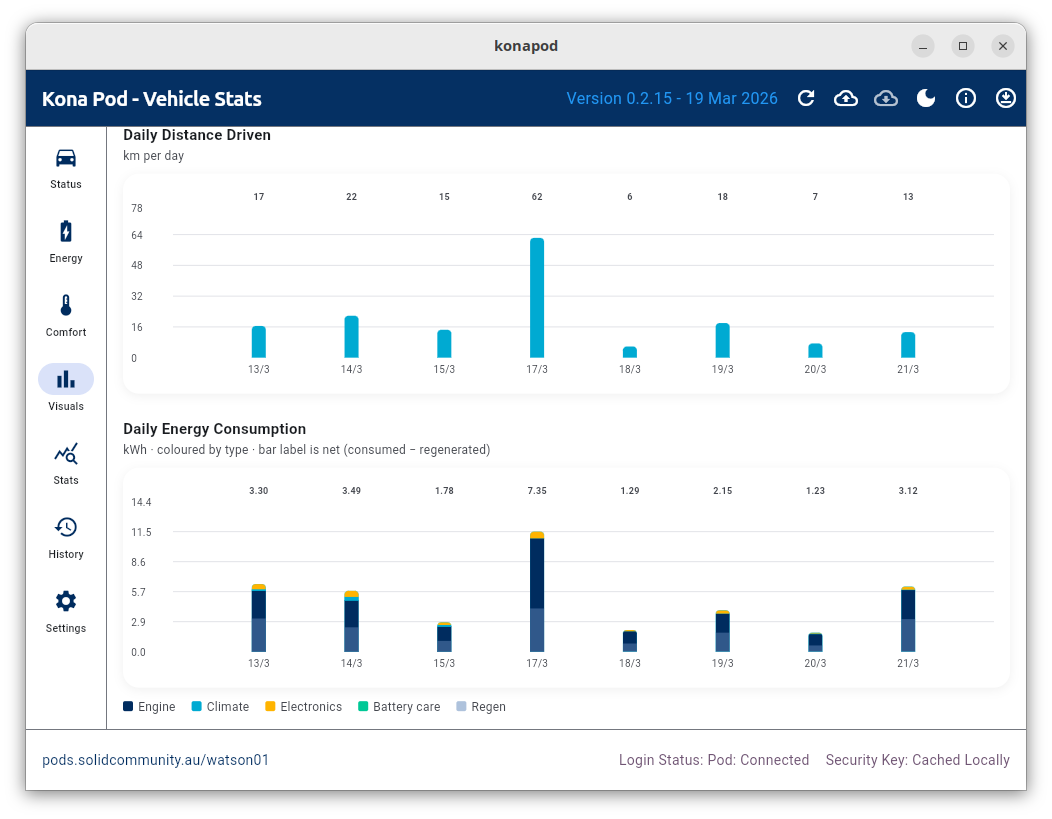
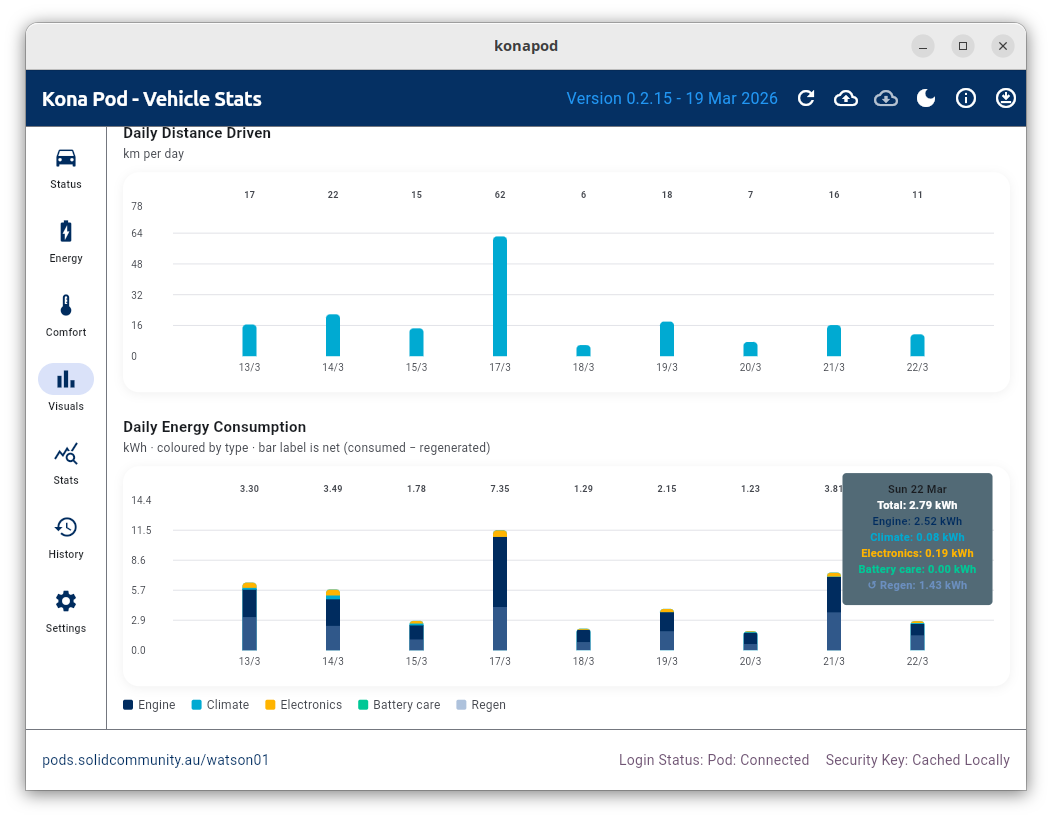
Update visuals screenshot

diff --git a/README.md b/README.md
@@ -115,8 +115,9 @@ statistics are presented here.
 
 ![Energy Page](./assets/screenshots/energy.png)
 
-Visuals Page - Here we explore visually some of the vehicale
-charateristics.
+Visuals Page - Here we explore visually some of the vehicle
+performace stats. The tooltip shows on this particular day the car
+regenerated about half of the used power through braking.
 
 ![Visuals Page](./assets/screenshots/visuals.png)
 
